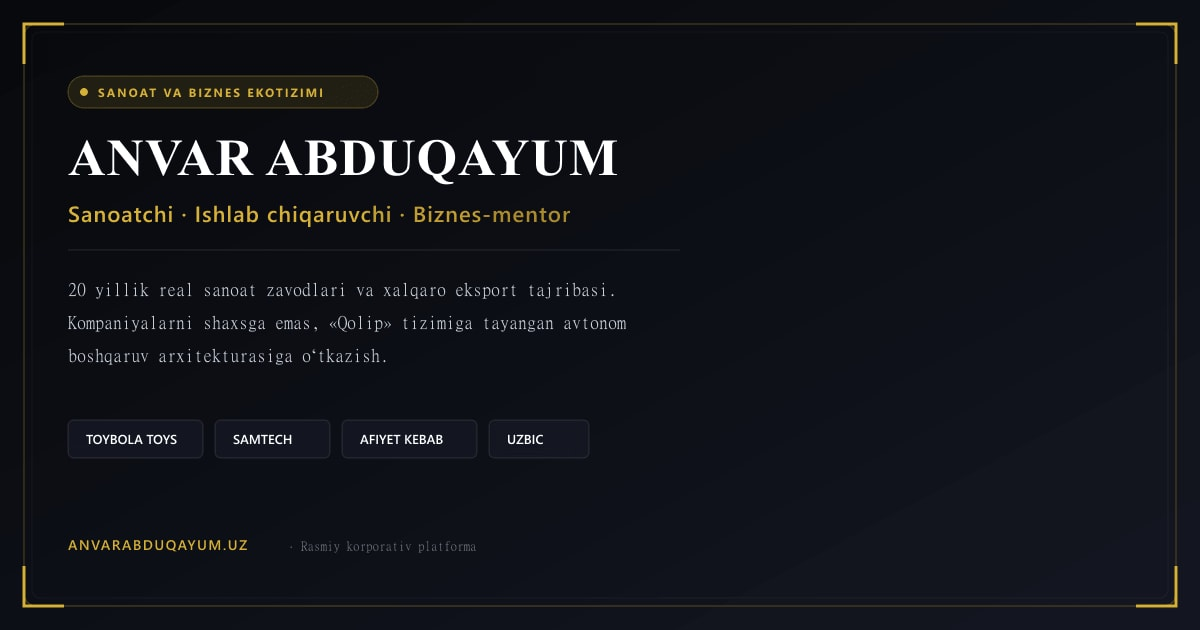
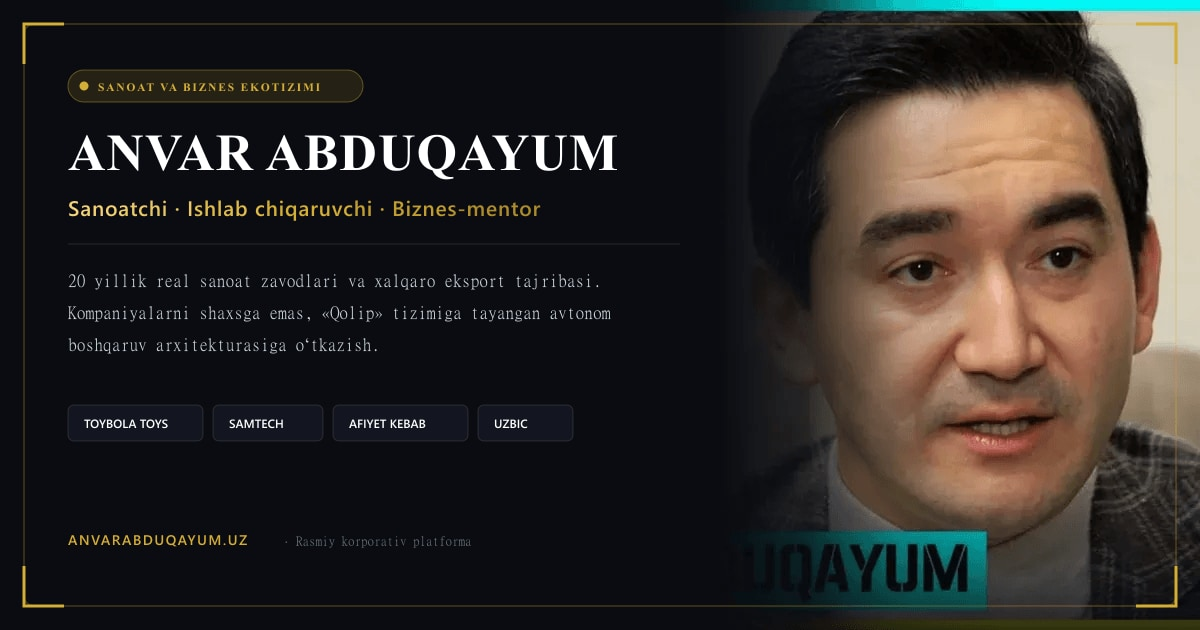
fix: make portrait fully visible on right side of og image

diff --git a/scripts/generate_anvar_og.js b/scripts/generate_anvar_og.js
@@ -5,45 +5,52 @@ const path = require('path');
 async function generateOgImage() {
   const width = 1200;
   const height = 630;
+  const portraitWidth = 480;
 
-  // 1. Portrait tayyorlash (o'ng tomonda 520x630 o'lchamda)
-  const portraitBuffer = await sharp('public/images/hero/portrait.webp')
-    .resize(520, 630, { fit: 'cover', position: 'top' })
+  // 1. Portretni tayyorlaymiz (480x630, o'ng tomonga joylashtirish uchun)
+  // Anvar Abduqayumning yuzi va gavdasi aniq ko'rinadigan qilib kesamiz
+  const portraitResized = await sharp('public/images/hero/portrait.webp')
+    .resize(portraitWidth, height, { fit: 'cover', position: 'north' })
     .toBuffer();
 
-  // 2. SVG overlay (fon, matnlar, oltin hoshiyalar, gradientlar)
+  // 2. Portretning chap chekkasini fonga silliq o'tishi uchun gradient mask
+  const fadeGradientSvg = `
+  <svg width="${portraitWidth}" height="${height}" viewBox="0 0 ${portraitWidth} ${height}" xmlns="http://www.w3.org/2000/svg">
+    <defs>
+      <linearGradient id="fadeEdge" x1="0%" y1="0%" x2="100%" y2="0%">
+        <stop offset="0%" stop-color="#0A0C11" stop-opacity="1" />
+        <stop offset="18%" stop-color="#0A0C11" stop-opacity="0.8" />
+        <stop offset="38%" stop-color="#0A0C11" stop-opacity="0.2" />
+        <stop offset="60%" stop-color="#0A0C11" stop-opacity="0" />
+      </linearGradient>
+      <linearGradient id="bottomShadow" x1="0%" y1="100%" x2="0%" y2="0%">
+        <stop offset="0%" stop-color="#0A0C11" stop-opacity="0.85" />
+        <stop offset="25%" stop-color="#0A0C11" stop-opacity="0" />
+      </linearGradient>
+    </defs>
+    <rect width="${portraitWidth}" height="${height}" fill="url(#fadeEdge)" />
+    <rect width="${portraitWidth}" height="${height}" fill="url(#bottomShadow)" />
+  </svg>
+  `;
+
+  // Portretga yumshoq chekka beramiz
+  const portraitWithEdge = await sharp(portraitResized)
+    .composite([{ input: Buffer.from(fadeGradientSvg), blend: 'over' }])
+    .toBuffer();
+
+  // 3. Matnlar va dizayn SVG qavati (FON SHAFFOF! Shunda portretni yopib qo'ymaydi)
   const svgOverlay = `
   <svg width="${width}" height="${height}" viewBox="0 0 ${width} ${height}" xmlns="http://www.w3.org/2000/svg">
     <defs>
-      <!-- Gradient fon -->
-      <linearGradient id="bgGrad" x1="0%" y1="0%" x2="100%" y2="100%">
-        <stop offset="0%" stop-color="#08090C" />
-        <stop offset="50%" stop-color="#0D0F16" />
-        <stop offset="100%" stop-color="#141722" />
-      </linearGradient>
-
-      <!-- Portret ustidagi yumshoq qora tuman (chapdan o'ngga) -->
-      <linearGradient id="fadeLeft" x1="0%" y1="0%" x2="100%" y2="0%">
-        <stop offset="0%" stop-color="#0D0F16" stop-opacity="1" />
-        <stop offset="45%" stop-color="#0D0F16" stop-opacity="0.9" />
-        <stop offset="70%" stop-color="#0D0F16" stop-opacity="0.3" />
-        <stop offset="100%" stop-color="#0D0F16" stop-opacity="0" />
-      </linearGradient>
-
-      <!-- Oltin gradient -->
-      <linearGradient id="goldGrad" x1="0%" y1="0%" x2="100%" y2="0%">
-        <stop offset="0%" stop-color="#E5BE42" />
+      <linearGradient id="goldText" x1="0%" y1="0%" x2="100%" y2="0%">
+        <stop offset="0%" stop-color="#F5D77F" />
         <stop offset="50%" stop-color="#D4AF37" />
         <stop offset="100%" stop-color="#AA8222" />
       </linearGradient>
     </defs>
 
-    <!-- Asosiy fon -->
-    <rect width="${width}" height="${height}" fill="url(#bgGrad)" />
-
     <!-- Oltin nozik ramka -->
-    <rect x="24" y="24" width="${width - 48}" height="${height - 48}" fill="none" stroke="rgba(212, 175, 55, 0.25)" stroke-width="1.5" rx="12" />
-    <rect x="32" y="32" width="${width - 64}" height="${height - 64}" fill="none" stroke="rgba(255, 255, 255, 0.05)" stroke-width="1" rx="8" />
+    <rect x="24" y="24" width="${width - 48}" height="${height - 48}" fill="none" stroke="rgba(212, 175, 55, 0.3)" stroke-width="1.5" rx="10" />
 
     <!-- Burchak aksentlari -->
     <path d="M 24 64 L 24 24 L 64 24" fill="none" stroke="#D4AF37" stroke-width="3" />
@@ -51,118 +58,91 @@ async function generateOgImage() {
     <path d="M 24 ${height - 64} L 24 ${height - 24} L 64 ${height - 24}" fill="none" stroke="#D4AF37" stroke-width="3" />
     <path d="M ${width - 64} ${height - 24} L ${width - 24} ${height - 24} L ${width - 24} ${height - 64}" fill="none" stroke="#D4AF37" stroke-width="3" />
 
-    <!-- Matnlar bloki -->
     <!-- Badge -->
-    <g transform="translate(68, 76)">
-      <rect x="0" y="0" width="310" height="32" rx="16" fill="rgba(212, 175, 55, 0.12)" stroke="rgba(212, 175, 55, 0.35)" stroke-width="1" />
-      <circle cx="16" cy="16" r="4" fill="#D4AF37" />
-      <text x="30" y="21" font-family="system-ui, -apple-system, BlinkMacSystemFont, 'Segoe UI', Roboto, sans-serif" font-size="12" font-weight="700" fill="#D4AF37" letter-spacing="2">
+    <g transform="translate(68, 70)">
+      <rect x="0" y="0" width="295" height="32" rx="16" fill="rgba(212, 175, 55, 0.14)" stroke="rgba(212, 175, 55, 0.4)" stroke-width="1" />
+      <circle cx="16" cy="16" r="4.5" fill="#D4AF37" />
+      <text x="30" y="21" font-family="system-ui, -apple-system, sans-serif" font-size="11.5" font-weight="700" fill="#D4AF37" letter-spacing="1.8">
         SANOAT VA BIZNES EKOTIZIMI
       </text>
     </g>
 
     <!-- Ism -->
-    <text x="68" y="175" font-family="'Times New Roman', Georgia, serif" font-size="52" font-weight="bold" fill="#FFFFFF" letter-spacing="1">
+    <text x="68" y="170" font-family="'Times New Roman', Georgia, serif" font-size="52" font-weight="bold" fill="#FFFFFF" letter-spacing="1">
       ANVAR ABDUQAYUM
     </text>
 
-    <!-- Unvon / Kasb -->
-    <text x="68" y="222" font-family="system-ui, -apple-system, sans-serif" font-size="22" font-weight="600" fill="url(#goldGrad)" letter-spacing="1">
+    <!-- Unvon -->
+    <text x="68" y="216" font-family="system-ui, -apple-system, sans-serif" font-size="21" font-weight="600" fill="url(#goldText)" letter-spacing="0.8">
       Sanoatchi · Ishlab chiqaruvchi · Biznes-mentor
     </text>
 
-    <line x1="68" y1="250" x2="680" y2="250" stroke="rgba(255, 255, 255, 0.12)" stroke-width="1" />
+    <line x1="68" y1="244" x2="680" y2="244" stroke="rgba(255, 255, 255, 0.12)" stroke-width="1" />
 
-    <!-- Tavsif -->
-    <text x="68" y="295" font-family="system-ui, -apple-system, sans-serif" font-size="18" font-weight="400" fill="#CBD5E1">
+    <!-- Tavsif matnlari -->
+    <text x="68" y="286" font-family="system-ui, -apple-system, sans-serif" font-size="17.5" font-weight="400" fill="#CBD5E1">
       20 yillik real sanoat zavodlari va xalqaro eksport tajribasi.
     </text>
-    <text x="68" y="328" font-family="system-ui, -apple-system, sans-serif" font-size="18" font-weight="400" fill="#CBD5E1">
+    <text x="68" y="318" font-family="system-ui, -apple-system, sans-serif" font-size="17.5" font-weight="400" fill="#CBD5E1">
       Kompaniyalarni shaxsga emas, «Qolip» tizimiga tayangan avtonom
     </text>
-    <text x="68" y="361" font-family="system-ui, -apple-system, sans-serif" font-size="18" font-weight="400" fill="#CBD5E1">
+    <text x="68" y="350" font-family="system-ui, -apple-system, sans-serif" font-size="17.5" font-weight="400" fill="#CBD5E1">
       boshqaruv arxitekturasiga o‘tkazish.
     </text>
 
-    <!-- Pastki korxonalar teglari -->
-    <g transform="translate(68, 420)">
-      <!-- Teg 1 -->
-      <rect x="0" y="0" width="135" height="38" rx="6" fill="#141722" stroke="rgba(255, 255, 255, 0.12)" />
-      <text x="18" y="24" font-family="system-ui, sans-serif" font-size="13" font-weight="600" fill="#FFFFFF">TOYBOLA TOYS</text>
+    <!-- Korxonalar teglari -->
+    <g transform="translate(68, 405)">
+      <rect x="0" y="0" width="135" height="36" rx="6" fill="#131620" stroke="rgba(255, 255, 255, 0.12)" />
+      <text x="16" y="23" font-family="system-ui, sans-serif" font-size="12" font-weight="600" fill="#FFFFFF">TOYBOLA TOYS</text>
 
-      <!-- Teg 2 -->
-      <rect x="147" y="0" width="115" height="38" rx="6" fill="#141722" stroke="rgba(255, 255, 255, 0.12)" />
-      <text x="165" y="24" font-family="system-ui, sans-serif" font-size="13" font-weight="600" fill="#FFFFFF">SAMTECH</text>
+      <rect x="145" y="0" width="110" height="36" rx="6" fill="#131620" stroke="rgba(255, 255, 255, 0.12)" />
+      <text x="161" y="23" font-family="system-ui, sans-serif" font-size="12" font-weight="600" fill="#FFFFFF">SAMTECH</text>
 
-      <!-- Teg 3 -->
-      <rect x="274" y="0" width="135" height="38" rx="6" fill="#141722" stroke="rgba(255, 255, 255, 0.12)" />
-      <text x="292" y="24" font-family="system-ui, sans-serif" font-size="13" font-weight="600" fill="#FFFFFF">AFIYET KEBAB</text>
+      <rect x="265" y="0" width="135" height="36" rx="6" fill="#131620" stroke="rgba(255, 255, 255, 0.12)" />
+      <text x="281" y="23" font-family="system-ui, sans-serif" font-size="12" font-weight="600" fill="#FFFFFF">AFIYET KEBAB</text>
 
-      <!-- Teg 4 -->
-      <rect x="421" y="0" width="100" height="38" rx="6" fill="#141722" stroke="rgba(255, 255, 255, 0.12)" />
-      <text x="439" y="24" font-family="system-ui, sans-serif" font-size="13" font-weight="600" fill="#FFFFFF">UZBIC</text>
+      <rect x="410" y="0" width="95" height="36" rx="6" fill="#131620" stroke="rgba(255, 255, 255, 0.12)" />
+      <text x="426" y="23" font-family="system-ui, sans-serif" font-size="12" font-weight="600" fill="#FFFFFF">UZBIC</text>
     </g>
 
     <!-- Pastki qism: Rasmiy domen -->
-    <g transform="translate(68, 550)">
+    <g transform="translate(68, 545)">
       <text x="0" y="0" font-family="monospace" font-size="14" font-weight="600" fill="#D4AF37" letter-spacing="1.5">
         ANVARABDUQAYUM.UZ
       </text>
-      <text x="220" y="0" font-family="system-ui, sans-serif" font-size="13" fill="#64748B">
+      <text x="215" y="0" font-family="system-ui, sans-serif" font-size="13" fill="#64748B">
         · Rasmiy korporativ platforma
       </text>
     </g>
   </svg>
   `;
 
-  // 3. Portret ustiga gradient soyani chizamiz
-  const shadowOverlay = `
-  <svg width="520" height="630" viewBox="0 0 520 630" xmlns="http://www.w3.org/2000/svg">
-    <defs>
-      <linearGradient id="pFade" x1="0%" y1="0%" x2="100%" y2="0%">
-        <stop offset="0%" stop-color="#08090C" stop-opacity="1" />
-        <stop offset="35%" stop-color="#08090C" stop-opacity="0.85" />
-        <stop offset="65%" stop-color="#08090C" stop-opacity="0.25" />
-        <stop offset="100%" stop-color="#08090C" stop-opacity="0" />
-      </linearGradient>
-      <linearGradient id="pBottom" x1="0%" y1="100%" x2="0%" y2="0%">
-        <stop offset="0%" stop-color="#08090C" stop-opacity="0.9" />
-        <stop offset="40%" stop-color="#08090C" stop-opacity="0" />
-      </linearGradient>
-    </defs>
-    <rect width="520" height="630" fill="url(#pFade)" />
-    <rect width="520" height="630" fill="url(#pBottom)" />
-  </svg>
-  `;
-
-  // Portret + tuman
-  const shadedPortrait = await sharp(portraitBuffer)
-    .composite([{ input: Buffer.from(shadowOverlay), blend: 'over' }])
-    .toBuffer();
-
-  // Barchasini birlashtirish
+  // 4. Asosiy fon (Solid background)
   const baseImg = sharp({
     create: {
       width,
       height,
       channels: 4,
-      background: { r: 8, g: 9, b: 12, alpha: 1 },
+      background: { r: 10, g: 12, b: 17, alpha: 1 }, // #0A0C11
     },
   });
 
+  // Birlashtirish:
+  // 1-qavat: Asosiy qora fon
+  // 2-qavat: O'ng tomonda portret (left: 720)
+  // 3-qavat: Shaffof SVG overlay (matnlar, hoshiya, teglari)
   const finalPngBuffer = await baseImg
     .composite([
-      { input: shadedPortrait, left: width - 520, top: 0 },
+      { input: portraitWithEdge, left: width - portraitWidth, top: 0 },
       { input: Buffer.from(svgOverlay), left: 0, top: 0 },
     ])
     .png({ quality: 95 })
     .toBuffer();
 
   const finalJpgBuffer = await sharp(finalPngBuffer)
-    .jpeg({ quality: 90, mozjpeg: true })
+    .jpeg({ quality: 92, mozjpeg: true })
     .toBuffer();
 
-  // Barcha manzillarga saqlash
   const targetsPng = [
     'public/images/brand/og-image.png',
     'public/og-image.png',
@@ -188,7 +168,7 @@ async function generateOgImage() {
     console.log(`Saved JPG: ${t} (${(finalJpgBuffer.length / 1024).toFixed(1)} KB)`);
   }
 
-  console.log('OG Images successfully generated for Anvar Abduqayum!');
+  console.log('OG Image with visible right-side portrait generated successfully!');
 }
 
 generateOgImage().catch(console.error);
